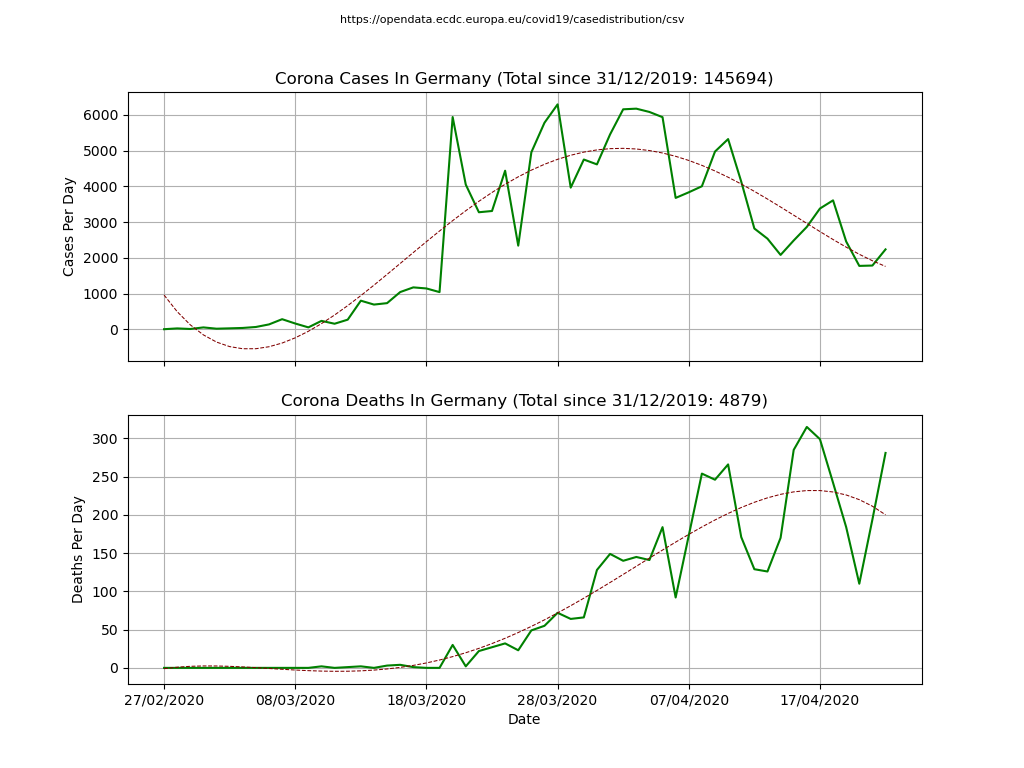
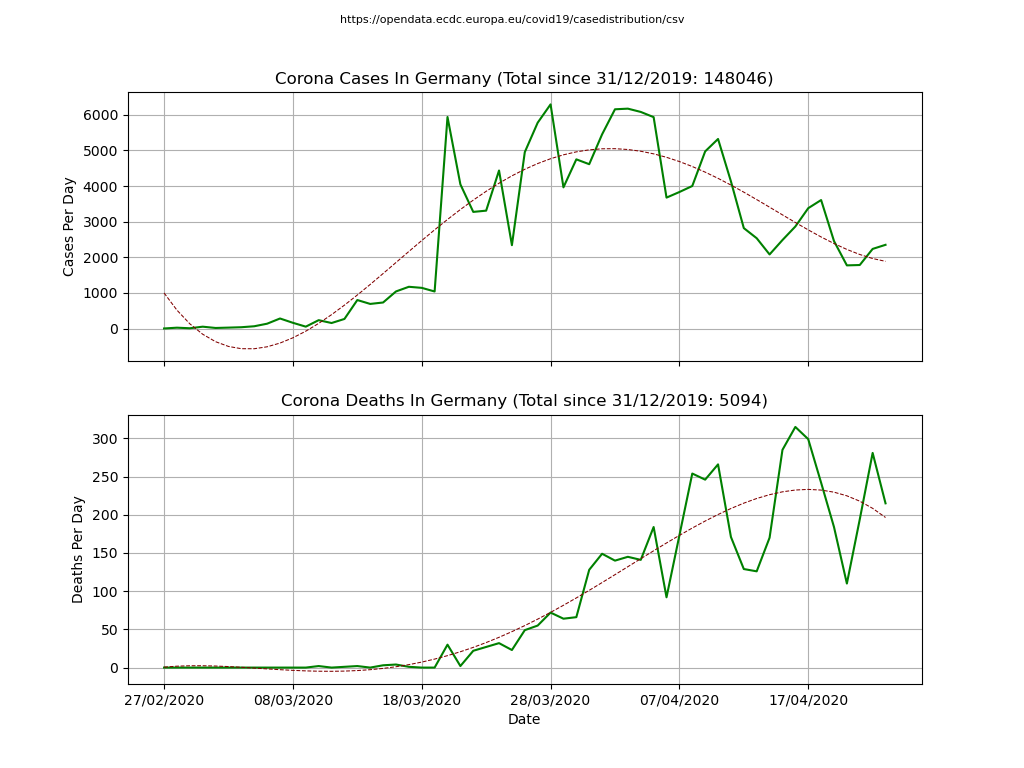
#10 Provide options --cache/--no-cache and --cache-file  - also the image with current data has been updated  - the viewer image has been removed because it basically    does show the same.

diff --git a/visualize.py b/visualize.py
@@ -24,6 +24,7 @@ import click
 import matplotlib.pyplot as plt
 import numpy as np
 import pandas as pd
+from io import StringIO
 
 
 class Application:
@@ -34,7 +35,6 @@ class Application:
     def __init__(self, options):
         """Initialize application with command line options."""
         self.options = options
-        self.use_cache = False
         self.df = None
         self.df_concrete = None
         self.country_filter = self.options['country'].lower()
@@ -60,15 +60,23 @@ class Application:
         logging.info("image format: %(format)s", self.options)
         logging.info("show viewer: %(viewer)s", self.options)
         logging.info("initial cases: %(initial_cases)d", self.options)
+        logging.info("use cache: %(cache)s", self.options)
+        logging.info("cache file: %(cache_file)s", self.options)
 
     def fetch_data(self):
         """Download Corona Data."""
-        if not os.path.isfile("covid19.csv") or not self.use_cache:
-            response = requests.get(Application.DATA_URL)
-            with open('covid19.csv', 'wb') as stream:
-                stream.write(response.content)
+        if self.options['cache']:
+            if not os.path.isfile(self.options['cache_file']):
+                logging.info("Downloading from %s", Application.DATA_URL)
+                response = requests.get(Application.DATA_URL)
+                with open(self.options['cache_file'], 'wb') as stream:
+                    stream.write(response.content)
 
-        self.df = pd.read_csv('covid19.csv')
+            self.df = pd.read_csv(self.options['cache_file'])
+        else:
+            logging.info("Downloading from %s", Application.DATA_URL)
+            response = requests.get(Application.DATA_URL)
+            self.df = pd.read_csv(StringIO(response.content.decode()))
 
     def provide_concrete_data(self):
         # searching for the country defined in the options
@@ -170,7 +178,8 @@ class Application:
               help="Width in pixels for the image.")
 @click.option('--height', '-h', default=768, type=int, show_default=True,
               help="Height in pixels for the image.")
-@click.option('--country', '-c', default='Germany', type=str, show_default=True,
+@click.option('--country', '-c', default='Germany',
+              type=str, show_default=True, metavar="<NAME>",
               help="Country as filter for the data.")
 @click.option('--format', '-f', default='png', type=click.Choice(['png', 'svg', 'jpg']),
               show_default=True,
@@ -180,6 +189,11 @@ class Application:
 @click.option('--initial-cases', default=0, type=int, show_default=True,
               help="Ignoring intial cases less than than given value" +
                    " for visualization (totals are not affected)")
+@click.option('--cache/--no-cache', default=False, show_default=True,
+              help="Enable/Diable the cache.")
+@click.option('--cache-file', default=os.path.join(os.getcwd(), 'covid19.csv'),
+              type=str, show_default=True, metavar="<PATH>",
+              help="Path and filename of the cache file.")
 def main(**options):
     """Visualizing covid19 data with matplotlib, panda and numpy."""
     application = Application(options)

diff --git a/README.md b/README.md
@@ -28,9 +28,9 @@ python visualize.py
 
 Running this script a file **covid19.csv** is generated and
 a file **covid19.png** is generated. In addition the viewer
-is started showing you the results:
+is started showing you same image where you can do some
+operation like zooming into the data.
 
-![](docs/images/viewer.png)
 
 The tool also provides command line options:
 
@@ -43,15 +43,20 @@ Usage: visualize.py [OPTIONS]
 Options:
   -w, --width INTEGER         Width in pixels for the image.  [default: 1024]
   -h, --height INTEGER        Height in pixels for the image.  [default: 768]
-  -c, --country TEXT          Country as filter for the data.  [default:
+  -c, --country <NAME>        Country as filter for the data.  [default:
                               Germany]
   -f, --format [png|svg|jpg]  File format for image.  [default: png]
   --viewer / --no-viewer      Show/hide the viewer.  [default: True]
   --initial-cases INTEGER     Ignoring intial cases less than than given value
                               for visualization (totals are not affected)
                               [default: 0]
+  --cache / --no-cache        Enable/Diable the cache.  [default: False]
+  --cache-file <PATH>         Path and filename of the cache file.  [default:
+                              D:\Programmierung\covid19\covid19.csv]
   --help                      Show this message and exit.
 ```
+
+Hint: The default for cache file looks (of course) on your machine differently.
 
 ## Links
 
